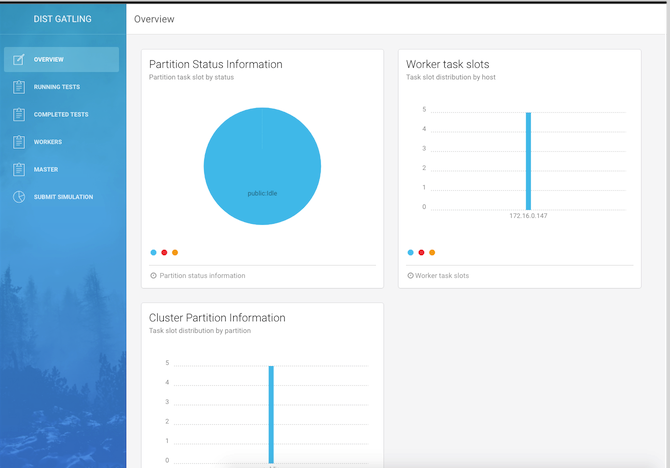
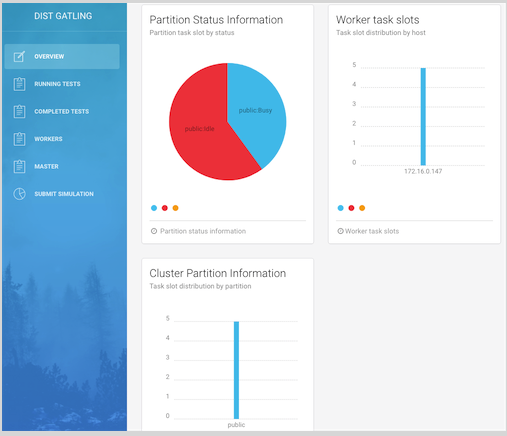
updated readme and configuration

diff --git a/gatling-agent/src/main/java/com/walmart/gatling/MonitoringConfiguration.java b/gatling-agent/src/main/java/com/walmart/gatling/MonitoringConfiguration.java
@@ -50,7 +50,7 @@ public class MonitoringConfiguration {
                 new InetSocketAddress(graphiteHost, graphitePort));
     }
 
-    @Bean
+    //@Bean
     public GraphiteReporter graphiteReporter(Graphite graphite,
                                              MetricRegistry registry,
                                              @Value("${graphite.prefix}")

diff --git a/gatling-rest/src/main/java/com/walmart/gatling/MonitoringConfiguration.java b/gatling-rest/src/main/java/com/walmart/gatling/MonitoringConfiguration.java
@@ -50,7 +50,7 @@ public class MonitoringConfiguration {
                 new InetSocketAddress(graphiteHost, graphitePort));
     }
 
-    @Bean
+    //@Bean
     public GraphiteReporter graphiteReporter(Graphite graphite,
                                              MetricRegistry registry,
                                              @Value("${graphite.prefix}")

diff --git a/README.md b/README.md
@@ -26,7 +26,7 @@ Gatling doesn’t have a cluster mode yet, hence the need for this project.
 Distributed Gatling is a walmart Technology in house solution that was created to enable developers and QA engineers to run gatling simulation tests in a distributed/cluster environment.  
 The solution is cloud native and has two components, Cluster Master and Cluster Worker.
 
-     Thread metrics for the master
+     The overview section displays information about partition status across the cluster,worker task slots distribution by host and task slot distribution by partition
 ![Alt text](images/landing.png "Thread metrics for the master")
 <!-- <img src="/images/landing.png" width="700" height="400" alt="Thread metrics for the master"/> -->
 
@@ -61,13 +61,14 @@ Download Gatling bundle as a .zip file [here](http://gatling.io/#/resources/down
                         
 After cloning or downloading the repository of distGatling ,follow the following steps to start the cluster
     
-    1. Update the application.yml file settings 
+    1. Update the application.yml file settings (gatling-rest and gatling-agent)
     
     job:
       path: "/workspace/gatling-charts-highcharts-bundle-2.1.7" # Path to the base directory where the gatling lib, simulation, data, and conf are stored
       logDirectory: "/workspace/gatling-charts-highcharts-bundle-2.1.7/" # Base directory for log files(log/error and log/std)
       command: "/bin/bash" # Base command to run gatling.sh file
       artifact: "/workspace/gatling-charts-highcharts-bundle-2.1.7/bin/{0}.sh" # Path for the location of gatling.sh
+      jobDirectory: /workspace/gspace/ # directory to store artifacts temporarily, only applicable for agents
 
     2. Open terminal window and run 
     
@@ -83,7 +84,7 @@ After starting the master using the above command, point your browser to GET htt
         
     4. Locate the agent shell script(under gatling-agent) and run agent.sh to start the Cluster worker on each node you intend to include in the cluster, each worker should be assigned the correct master contact point
         
-        /bin/bash agent.sh -Dakka.contact-points=<MASTER_HOST>:<MASTER_PORT>
+        /bin/bash agent.sh -Dakka.contact-points=<MASTER_HOST>:<MASTER_PORT> -Dactor.port=<0> -Dserver.port=<8090>
 
 
 
@@ -133,7 +134,7 @@ If the worker become alive after recovery it should re-join the cluster and re-r
 
 ### Generate a report  - collects all simulation log and generates a gatling performance report
 ![Alt text] (images/generate_report.png "Generate report")
-<!-- <img src="/images/cluster_info.png" width="700" height="400" alt="Cluster info"/> -->
+<!-- <img src="/images/generate_report.png" width="700" height="400" alt="Cluster info"/> -->
 
 ---
 
